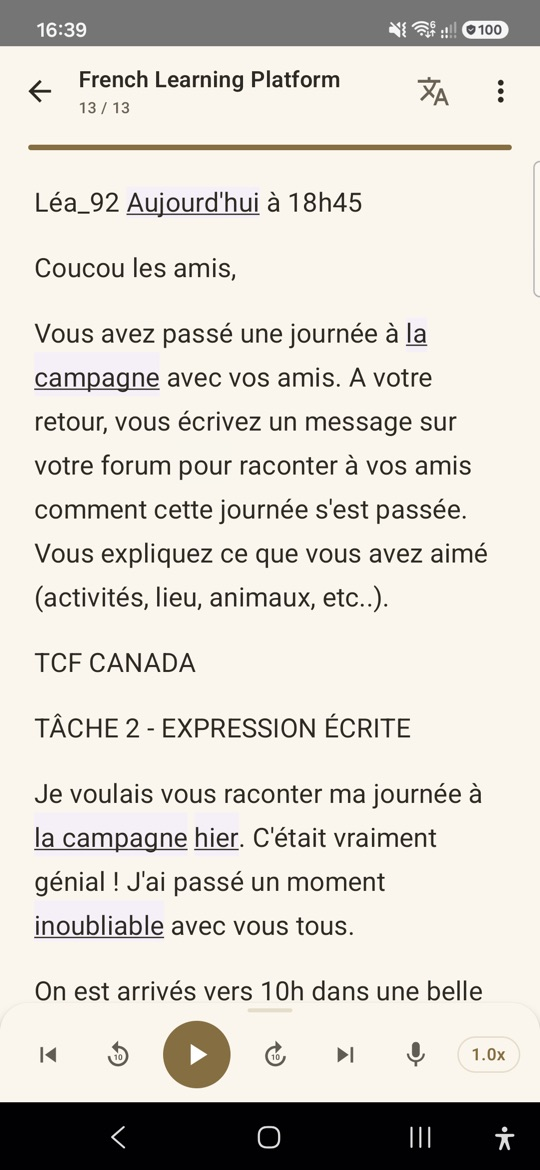
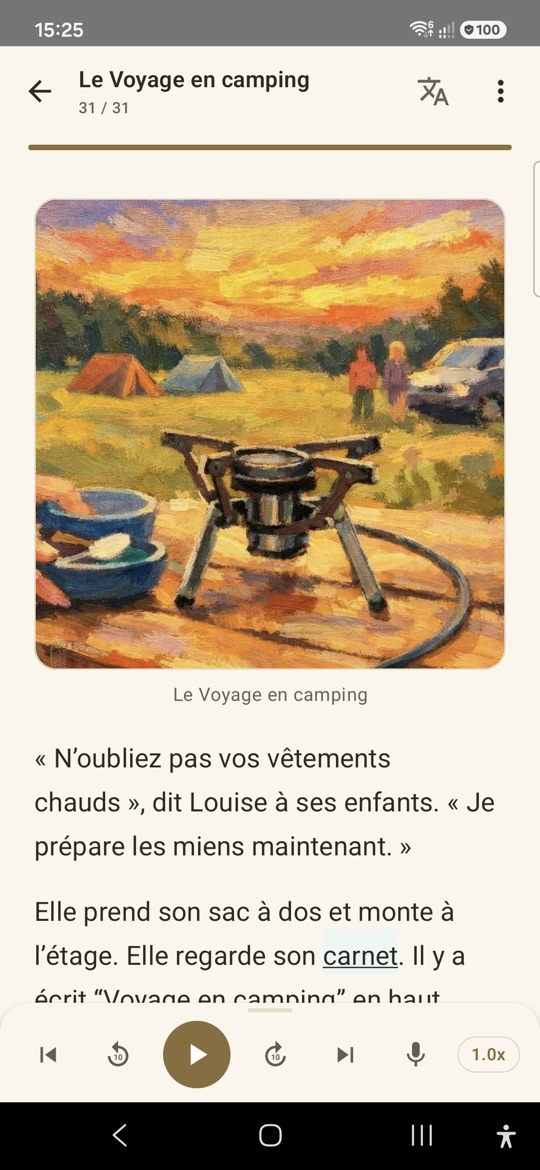
fix(reading): show bundled-story and non-JPEG images; new reading screenshot
The epubimg: ref check only accepted a hex folder and .jpg, so built-in
graded-story pictures (folder "dataset") and PNG/spaced names from folder
import were silently dropped. Accept any safe folder name and common image
types, and check that the resolved path stays inside text_images.

diff --git a/app/src/main/java/com/ziaee/frenchreader/ui/ReadingScreen.kt b/app/src/main/java/com/ziaee/frenchreader/ui/ReadingScreen.kt
@@ -98,7 +98,18 @@ import kotlinx.coroutines.CancellationException
 import kotlinx.coroutines.launch
 
 private val SPEED_OPTIONS = listOf(0.75f, 1.0f, 1.25f, 1.5f)
-private val EPUB_IMAGE_REF = Regex("^[0-9a-f]+/[A-Za-z0-9][A-Za-z0-9_-]*\\.jpg$")
+// `<folder>/<file>` under text_images/epub_<folder>: EPUB and folder imports use a content hash as
+// the folder, bundled stories use "dataset". resolveEpubImage() also checks the resolved path.
+private val EPUB_IMAGE_REF = Regex("^[A-Za-z0-9_-]+/[^/\\\\]+\\.(jpe?g|png|gif|webp)$", RegexOption.IGNORE_CASE)
+
+/** The stored image for an `epubimg:` reference, or null if it's malformed, missing, or would
+ * resolve outside the app's text_images directory. */
+internal fun resolveEpubImage(filesDir: File, ref: String): File? {
+    if (!EPUB_IMAGE_REF.matches(ref) || ".." in ref) return null
+    val root = File(filesDir, "text_images").canonicalFile
+    val file = File(root, "epub_$ref").canonicalFile
+    return file.takeIf { it.isFile && it.parentFile?.parentFile == root }
+}
 
 @OptIn(ExperimentalMaterial3Api::class)
 @Composable
@@ -1186,10 +1197,8 @@ private fun EpubImage(
     fontScale: Float
 ) {
     val context = LocalContext.current
-    val ref = block.imageRef?.takeIf(EPUB_IMAGE_REF::matches) ?: return
-    val file = remember(context.filesDir, ref) {
-        File(context.filesDir, "text_images/epub_$ref").takeIf { it.isFile }
-    } ?: return
+    val ref = block.imageRef ?: return
+    val file = remember(context.filesDir, ref) { resolveEpubImage(context.filesDir, ref) } ?: return
 
     Column(
         modifier = Modifier.fillMaxWidth().padding(vertical = FrenchReaderDesign.spacing.xSmall),

diff --git a/app/src/test/java/com/ziaee/frenchreader/ui/EpubImageRefTest.kt b/app/src/test/java/com/ziaee/frenchreader/ui/EpubImageRefTest.kt
@@ -1,0 +1,36 @@
+package com.ziaee.frenchreader.ui
+
+import org.junit.Assert.assertEquals
+import org.junit.Assert.assertNull
+import org.junit.Test
+import java.io.File
+import java.nio.file.Files
+
+class EpubImageRefTest {
+    private val filesDir = Files.createTempDirectory("files").toFile()
+
+    private fun store(path: String) = File(filesDir, "text_images/$path").apply {
+        parentFile!!.mkdirs(); writeText("x")
+    }
+
+    @Test
+    fun resolvesDatasetHashAndNonJpegImages() {
+        val dataset = store("epub_dataset/fabulang-a1-voyage-camping.jpg")
+        val epub = store("epub_3fa9/0_1.jpg")
+        val png = store("epub_3fa9/Photo 1.PNG")
+        assertEquals(dataset.canonicalFile, resolveEpubImage(filesDir, "dataset/fabulang-a1-voyage-camping.jpg"))
+        assertEquals(epub.canonicalFile, resolveEpubImage(filesDir, "3fa9/0_1.jpg"))
+        assertEquals(png.canonicalFile, resolveEpubImage(filesDir, "3fa9/Photo 1.PNG"))
+    }
+
+    @Test
+    fun rejectsMissingMalformedAndEscapingRefs() {
+        store("epub_x/a.jpg")
+        File(filesDir, "secret.jpg").writeText("x")
+        assertNull(resolveEpubImage(filesDir, "x/missing.jpg"))
+        assertNull(resolveEpubImage(filesDir, "x/a.txt"))
+        assertNull(resolveEpubImage(filesDir, "../../secret.jpg"))
+        assertNull(resolveEpubImage(filesDir, "x/../../secret.jpg"))
+        assertNull(resolveEpubImage(filesDir, "a.jpg"))
+    }
+}
